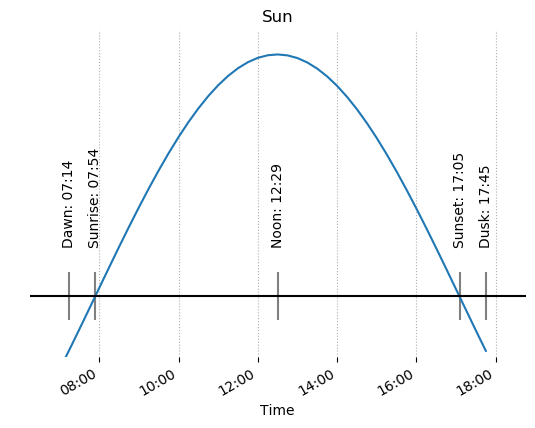
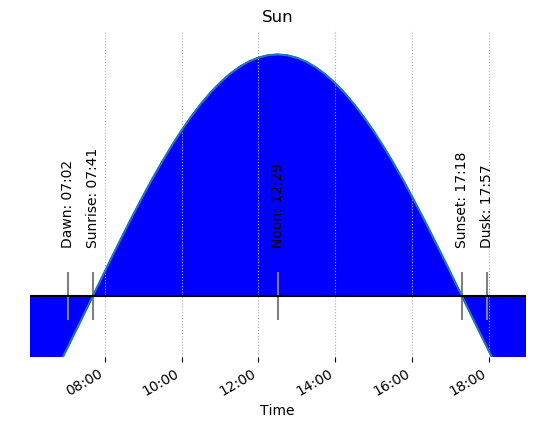
add in logic for shading graph up to now() to make it clearer how much of the day has expired. Add in TODO notes for future plans

diff --git a/app/DayGraph.py b/app/DayGraph.py
@@ -25,13 +25,14 @@ location = [float(config.get('location','latitude')), float(config.get('location
 
 # get location of save folder
 GRAPH_ROOT=config.get('folder','Graph')
-print(GRAPH_ROOT)
+# print(GRAPH_ROOT)
 
 #print(location)
 
 # Make "now" static for each run to avoid the problem of an inconsistant date if it clicks over at midnight, and to minimise calls
 
 now = dt.datetime.today()
+#print(now)
 
 # initiate the Sun module
 s = Sun(now,location,0)
@@ -39,15 +40,18 @@ s = Sun(now,location,0)
 #print(s.Rise()['Official'])
 
 # get sunrise and set times and convert to a datetime object
-Sunrise = dt.datetime(now.year,now.month,now.day,0,0,0) + s.Rise()['Official']
-Sunset = dt.datetime(now.year,now.month,now.day,0,0,0) + s.Set()['Official']
-LengthOfDay = dt.datetime(now.year,now.month,now.day,0,0,0) + s.LengthOfDay()
-Dawn = dt.datetime(now.year,now.month,now.day,0,0,0) + s.Rise()['Civil']
-Dusk = dt.datetime(now.year,now.month,now.day,0,0,0) + s.Set()['Civil']
-Noon = dt.datetime(now.year,now.month,now.day,0,0,0) + s.Transit()
+
+today = dt.datetime(now.year,now.month,now.day,0,0,0)
+Sunrise = today + s.Rise()['Official']
+Sunset = today + s.Set()['Official']
+LengthOfDay = today + s.LengthOfDay()
+Dawn = today + s.Rise()['Civil']
+Dusk = today + s.Set()['Civil']
+Noon = today + s.Transit()
 
 # datetime object allows individual attributes to be taken such as hour, minute and second. Convert to decimal format for calculations. Ignore seconds.
 
+# TODO - migrate these to a function
 dSunrise = Sunrise.hour + (Sunrise.minute / 60)
 dSunset = Sunset.hour + (Sunrise.minute / 60)
 dLengthOfDay = LengthOfDay.hour + (LengthOfDay.minute / 60)
@@ -55,13 +59,12 @@ dNow = now.hour + (now.minute / 60)
 dDawn = Dawn.hour + (Dawn.minute / 60)
 dDusk = Dusk.hour + (Dusk.minute / 60)
 #dNoon = Noon.hour + (Noon.minute / 60)
+dNow = now.hour+(now.minute / 60)
 
 # print(dSunrise,dSunset,dLengthOfDay)
 
 # Make "today" static for each run to avoid the problem of an inconsistant date if it clicks over at midnight, and to minimise calls
 
-now = dt.datetime.today()
-# print(now)
 
 # create an array of times in the day
 
@@ -77,7 +80,21 @@ for i in range (0,int((dLengthOfDay + 3)/(15/60))):
 	#print(xd[i].minute)
 
 # create y values 
+# TODO migrate formula to a function
 y = [math.sin(math.pi*(i - dSunrise) / dLengthOfDay) for i in xn ]
+
+# logic for shading
+# create new set for x values based that ends at now. This is for shading up to now in teh graph
+xdnow = [i for i in xd if i <now] # create x vals up to now for shading later on. Can be up to 15 mins short though
+#print(xdnow)
+xdnow.append(dt.datetime(now.year,now.month,now.day,now.hour,now.minute,now.second)) # add in calc for now
+
+#print(xdnow)
+# create y values based on shortened x values up to now. Again can be one item short so it'll need adding
+y2 = [math.sin(math.pi*(i - dSunrise) / dLengthOfDay) for i in xn if i < dNow]
+# add in last element for now
+y2.append(math.sin(math.pi*(dNow - dSunrise) / dLengthOfDay))
+#print(y2)
 
 # format how the times are to be displayed
 xfmt = mdates.DateFormatter('%H:%M')
@@ -103,6 +120,7 @@ ax.get_yaxis().set_ticks([])
 ax.grid(which='major', axis='x',linestyle='dotted')
 
 # put some lines on the plot
+# TODO - migrate properties into a variable to reduce chance of errors when updating code
 plt.axhline(y=0, color='black') # horizon
 plt.vlines(x=Dawn, ymin = -0.1, ymax = 0.1, color='grey')
 plt.vlines(x=Dusk, ymin = -0.1, ymax = 0.1, color='grey')
@@ -117,18 +135,19 @@ if (dNow > (dDawn - 1)) and (dNow < (dDusk - 1)):
 # bound axis to 1 hrs before Dawn and 1 hours after Dusk
 ax.set_xlim(Dawn - dt.timedelta(hours=1),Dusk + dt.timedelta(hours=1))
 
-# TODO - shade graph so its easier to see that day has expired and that red line isn't just missing
-
-
 # add text to graph
+# TODO migrate some of the strings to functions
 ax.text(Dawn, 0.2, ''.join(['Dawn: ', str(Dawn.hour).zfill(2),":",str(Dawn.minute).zfill(2)]), ha='center', va='bottom', rotation=90)
 ax.text(Dusk, 0.2, ''.join(['Dusk: ', str(Dusk.hour).zfill(2),":",str(Dusk.minute).zfill(2)]), ha='center', va='bottom', rotation=90)
 ax.text(Noon, 0.2, ''.join(['Noon: ', str(Noon.hour).zfill(2),":",str(Noon.minute).zfill(2)]), ha='center', va='bottom', rotation=90)
 ax.text(Sunrise, 0.2, ''.join(['Sunrise: ', str(Sunrise.hour).zfill(2),":",str(Sunrise.minute).zfill(2)]), ha='center', va='bottom', rotation=90)
 ax.text(Sunset, 0.2, ''.join(['Sunset: ', str(Sunset.hour).zfill(2),":",str(Sunset.minute).zfill(2)]), ha='center', va='bottom', rotation=90)
 
-# shade graph as day progresses
-# plt.fill_between(xd, y, 0, color='y')
+
+
+#shade graph as day progresses using adjusted curves
+
+plt.fill_between(xdnow, 0, y2,interpolate=True, color='blue')
 
 # autoformat the times
 plt.gcf().autofmt_xdate()
